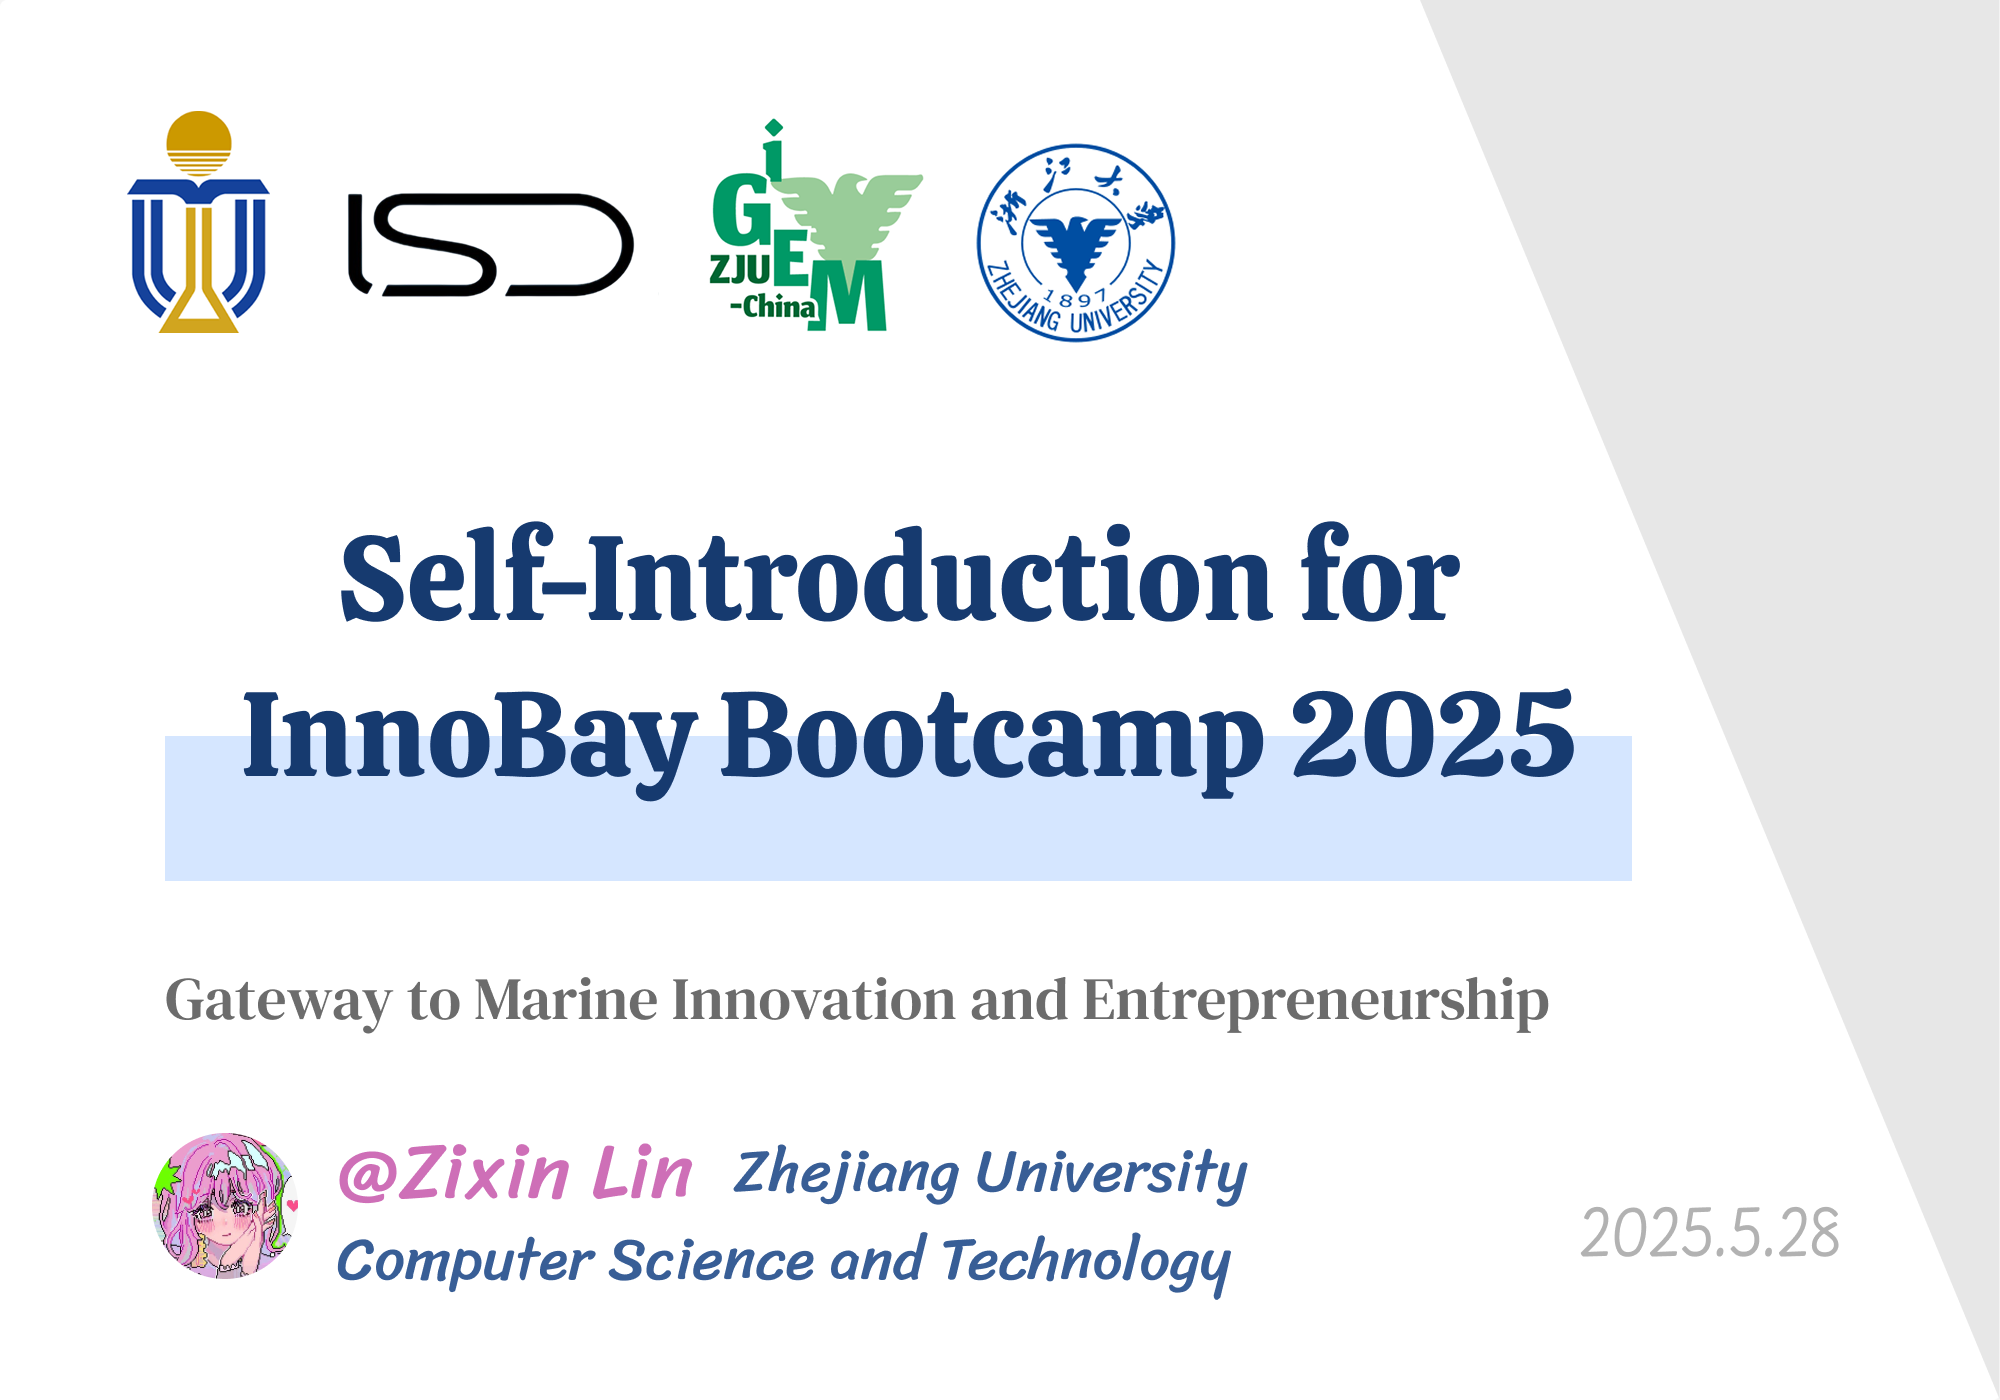
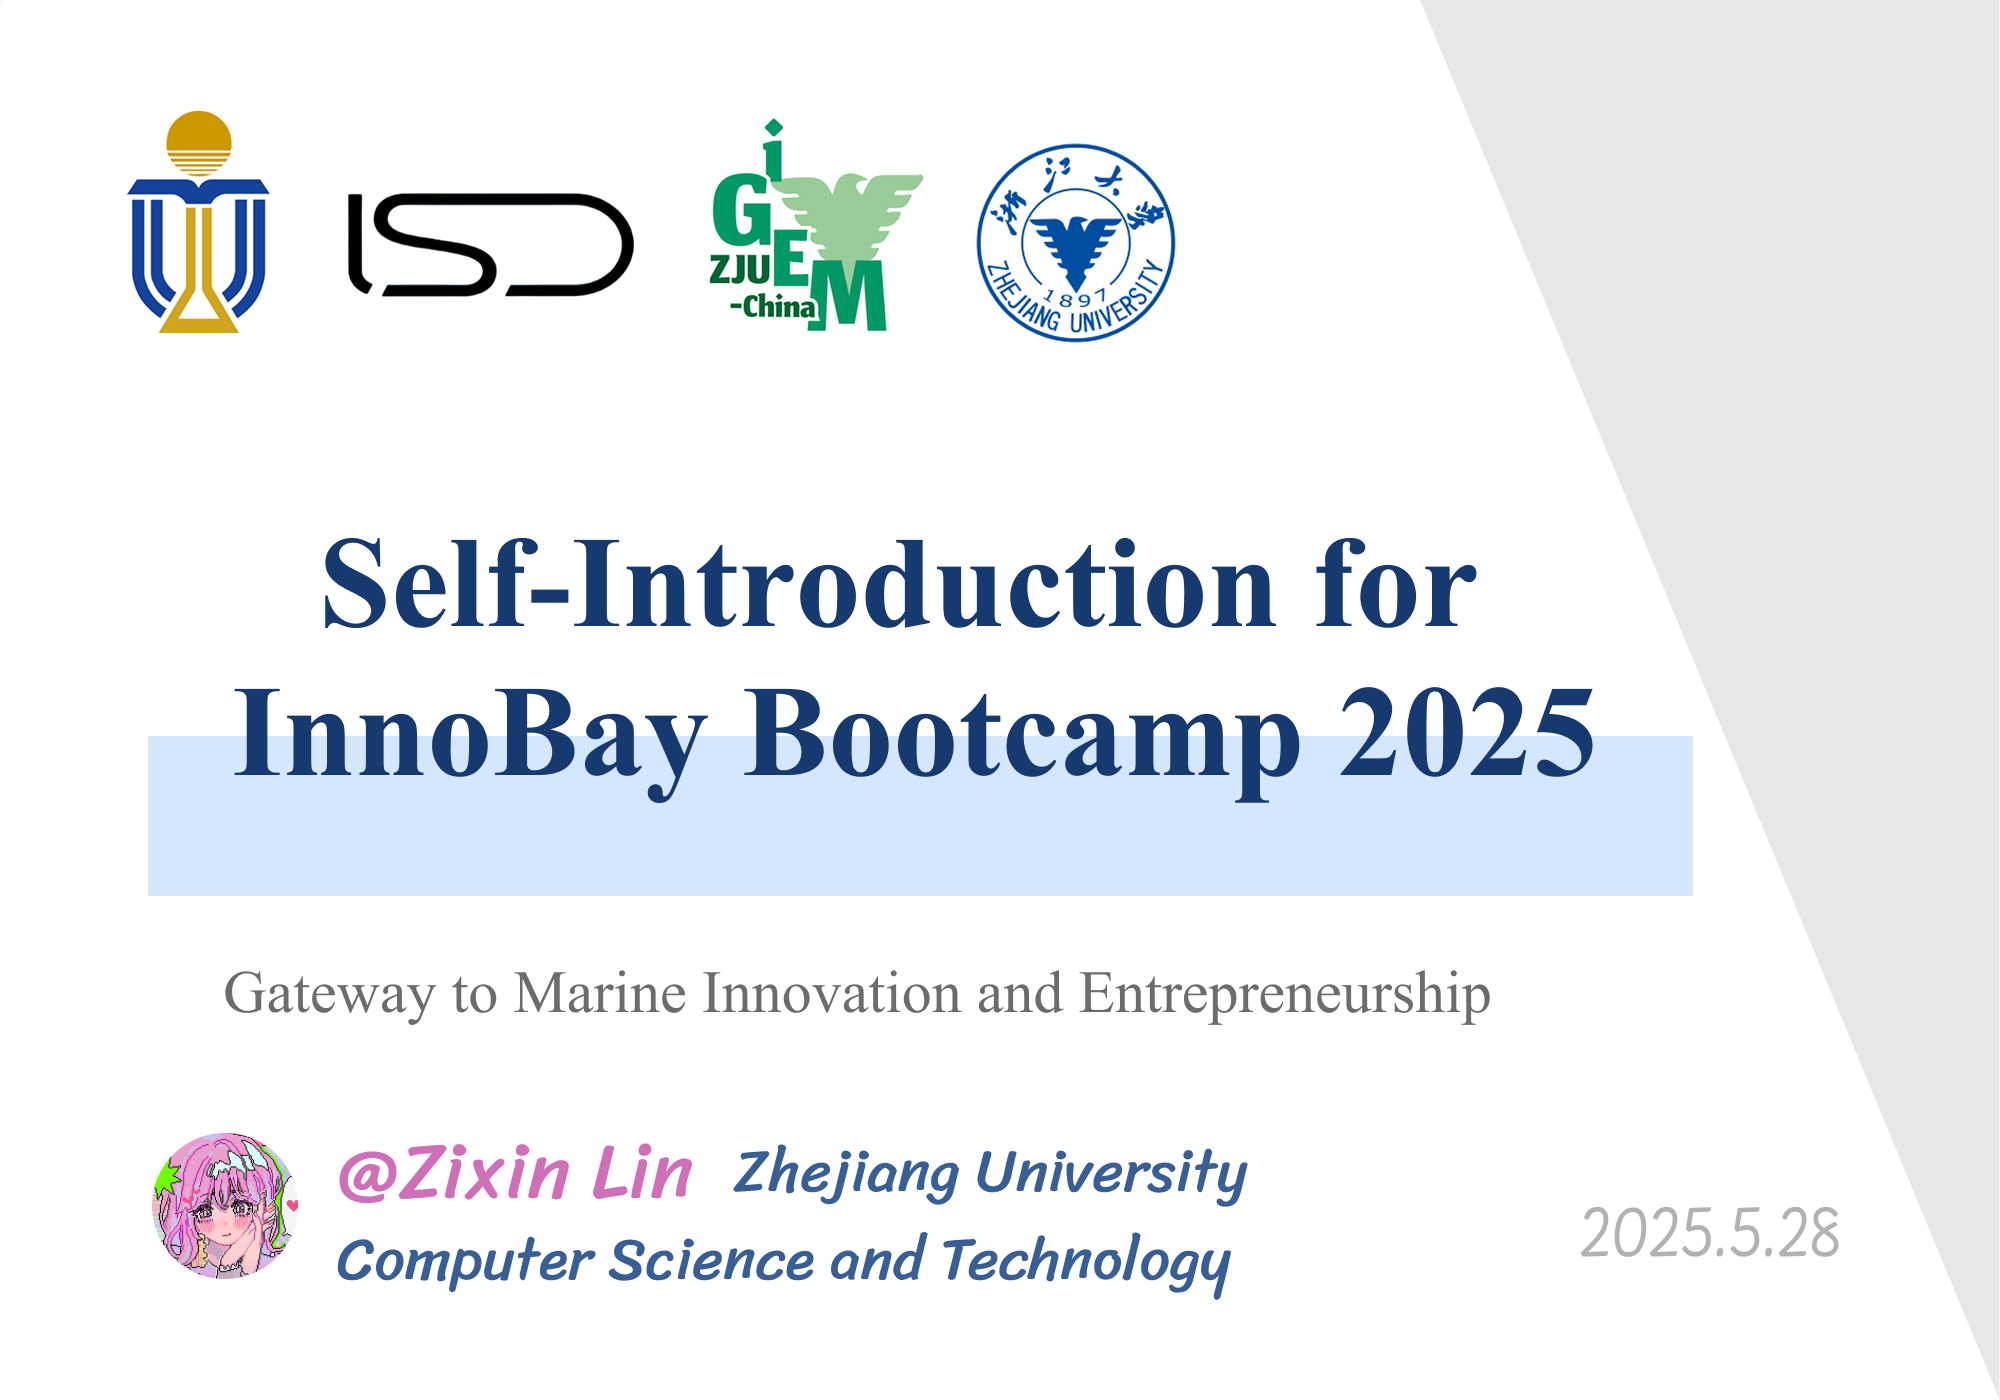
slide: change font in hkust inter

Changed region(s): [[0.062, 0.4914, 0.868, 0.645], [0.155, 0.3686, 0.744, 0.4607], [0.062, 0.6757, 0.775, 0.7371]]

diff --git a/src/hkust.md b/src/hkust.md
@@ -13,23 +13,32 @@ revealOptions:
     width: 1000
 ---
 
+<style>
+:root {
+  --r-main-font: "Times New Roman", "LXGW WenKai Screen", sans-serif;
+  --r-heading-font: "JetBrains Mono", "LXGW WenKai Screen", sans-serif;
+  --r-code-font: "Times New Roman", "LXGW WenKai Screen", sans-serif;
+}
+</style>
+
 <!-- .slide: data-background="hkust/cover.png" -->
 
 <!--v-->
 <!-- .slide: data-background="hkust/background.png" -->
 
-## About Me
+<h2 style="color: #337ab7;">About Me</h2>
 
 <div style="font-size: 0.9em; padding-left: 20px; padding-right: 20px;">
   <p><strong>Zixin Lin (林子昕)</strong> | B.Eng. Candidate in Information Security, Zhejiang University (2022-2026).</p>
   <p>Passionate about leveraging <strong>AI & IoT</strong> for innovative solutions. Currently Team Leader for ZJU-CHINA iGEM 2025 Team.</p>
   
   <!-- <p style="margin-top:15px; font-size: 0.9em;"><strong>Academic Background:</strong></p> -->
+  <p style="margin-top:15px; font-size: 0.9em;"><strong>Academic Background:</strong></p>
   <ul style="font-size: 0.9em;">
     <li><strong>Zhejiang University (2022 – 2026):</strong> 
       <ul style="font-size: 0.9em;">
         <li>Information Security (CS & Tech) | GPA: 3.93/4.3 </li>
-        <li>Relevant Courses: CompSys (98), SW Security (99), CTF Practice (99).</li>
+        <li>Relevant Courses: Computer System (98), Software Security (99), CTF Practice (99), Computer Network Security (91)</li>
       </ul>
     </li>
     <li style="margin-top:10px;"><strong>University of California, Irvine (Summer 2024):</strong> 
@@ -47,7 +56,7 @@ revealOptions:
 <div class="middle center">
 <div style="width: 100%">
 
-# Publications
+<h1 style="color: #337ab7;">Publications</h1>
 
 </div>
 </div>
@@ -56,7 +65,7 @@ revealOptions:
 <!-- .slide: data-background="hkust/background.png" -->
 
 
-## Publications in AI field
+<h2 style="color: #337ab7;">Publications in AI field</h2>
 
 <div style="font-size: 0.82em; line-height: 1.45; padding-left: 25px; padding-right: 25px;">
   <p style="margin-bottom: 12px;">
@@ -84,7 +93,7 @@ revealOptions:
 <!--v-->
 <!-- .slide: data-background="hkust/background.png" -->
 
-## Publications in IoT field
+<h2 style="color: #337ab7;">Publications in IoT field</h2>
 
   <p style="margin-bottom: 12px;">
     <strong>DiskSpy: Exploring a Long-Range Covert-Channel Attack via mmWave Sensing of &mu;m-level HDD Vibrations</strong><br>
@@ -93,17 +102,17 @@ revealOptions:
   </p>
   <p>
     <strong>Practical EMI Attacks on Smartphones With Users' Commands Cancelled</strong><br>
-    <em>IEEE Trans. Dependable Secur. Comput. (TDSC)</em><br>
+    <em>IEEE Trans. Dependable Secur. Comput. 2024 (Accepted)</em><br>
     <span style="font-size: 0.85em; color: #333;">Ming Gao, Fu Xiao, Wentao Guo, <strong>Zixin Lin</strong>, Weiran Liu, Jinsong Han</span>
   </p>
 </div>
 
 <div class = 'mul-cols'>
   <div class = 'col'>
-    <img src="hkust/diskspy.png" alt="USENIX Security Symposium 2025" style="width: 80%; display: block; margin: 0 auto;">
+    <img src="hkust/diskspy.png" alt="USENIX Security Symposium 2025" style="width: 90%; display: block; margin: 0 auto;">
   </div>
   <div class = 'col'>
-    <img src="hkust/emi.png" alt="IEEE Trans. Dependable Secur. Comput. (TDSC)" style="width: 80%; display: block; margin: 0 auto;">
+    <img src="hkust/emi.png" alt="IEEE Trans. Dependable Secur. Comput. (TDSC)" style="width: 90%; display: block; margin: 0 auto;">
   </div>
   </div>
 </div>
@@ -113,7 +122,7 @@ revealOptions:
 <div class="middle center">
 <div style="width: 100%">
 
-# Innovation & Project
+<h1 style="color: #337ab7;">Innovation & Project</h1>
 
 </div>
 </div>
@@ -121,44 +130,46 @@ revealOptions:
 <!--v-->
 <!-- .slide: data-background="hkust/background.png" -->
 
-## LumaManta: Marine Protect System
+<h2 style="color: #337ab7;">LumaManta: Marine Protect System</h2>
 
 - **Project & Goals:** Targeting Gold in <strong>iGEM 2025</strong> with an integrated underwater system for multi-pollutant detection, quantification, & in-situ treatment to combat marine pollution.
 
 
 <div class = 'mul-cols'>
   <div class = 'col'>
-    <img src="hkust/poster.png" alt="LumaManta" style="width: 60%; display: block; margin: 0.15em 2em;">
+    <img src="hkust/poster.png" alt="LumaManta" style="width: 65%; display: block; margin: 0.15em 2em;">
   </div>
   <div class = 'col'>
     <p style="font-size: 0.6em; margin: 0 0"><strong>My Role:</strong> Team Leader, ZJU-CHINA iGEM Team (selected after leading the development of a comprehensive proposal & wiki for the competitive university team trials).</p>
-    <img src="hkust/igem-wp.png" alt="ZJU-CHINA iGEM 2025" style="width: 70%; display: block; margin: 0.4em auto;">
+    <img src="hkust/igem-wp0.png" alt="ZJU-CHINA iGEM 2025" style="width: 60%; display: block; margin: 0.1em auto;">
+    <img src="hkust/igem-wp.png" alt="ZJU-CHINA iGEM 2025" style="width: 60%; display: block; margin: 0.2em auto;">
   </div>
 </div>
 
 <!--v-->
 <!-- .slide: data-background="hkust/background.png" -->
 
-## DragonZhu: AIGC Detection Tool
+<h2 style="color: #337ab7;">DragonZhu: AIGC Detection Tool</h2>
 
 - **Project & Achievements:** Developed and deployed a web-based platform for detecting multimodal AI-Generated Content (text, images, audio, video). The project achieved a **National Gold Award** in the China "Internet+" Innovation and Entrepreneurship Competition.
 - **My Role:** Team member, involved in developing the user-friendly interface, data processing capabilities, and backend services for API interaction and result visualization.
 
-<img src="hkust/aigc.png" alt="DragonZhu" style="width: 55%; display: block; margin: 0.15em auto;">
+<img src="hkust/aigc.png" alt="DragonZhu" style="width: 70%; display: block; margin: 0.15em auto;">
 
 <!--v-->
 <!-- .slide: data-background="hkust/background.png" -->
-## XRoot CPU: RISC-V System
+<h2 style="color: #337ab7;">XRoot CPU: RISC-V System</h2>
 
-- **Project & Achievements:** Designed and implemented a complete computer system, from a 64-bit RISC-V processor (hardware) to an OS kernel with multitasking and memory management (software). The work was featured in the "Computer System Interdisciplinary Course Experiment Guide (RISC-V Architecture)".
-- **My Role:** Initially completed individual full-stack (hardware & software) development. In the final team-based hardware-software co-design phase, responsible for the software component.
+- <strong>Full-Stack RISC-V System:</strong> Engineered a <strong>complete 64-bit RISC-V computer system</strong>, from processor hardware to a multitasking OS kernel.
+    - This work is <strong>featured</strong> in the "Computer System Interdisciplinary Course Experiment Guide (RISC-V Architecture)" by Prof. Chang.
+- <strong>My Role:</strong> Completed initial <strong>full-stack (HW & SW) development</strong>, and later spearheaded the <strong>software component</strong> in the team-based co-design.
 
 <div class = 'mul-cols'>
   <div class = 'col'>
-    <img src="hkust/xpart.png" alt="XRoot CPU" style="width: 65%; display: block; margin: 0.15em 2em;">
+    <img src="hkust/xpart.png" alt="XRoot CPU" style="width: 100%; display: block; margin: 0.15em 2em;">
   </div>
   <div class = 'col'>
-    <img src="hkust/risc.png" alt="XRoot CPU" style="width: 70%; display: block; margin: 0.4em auto;">
+    <img src="hkust/risc.png" alt="XRoot CPU" style="width: 80%; display: block; margin: 1em auto;">
   </div>
 </div>
 
@@ -168,7 +179,7 @@ revealOptions:
 <div class="middle center">
 <div style="width: 100%">
 
-# Why InnoBay & Why Me
+<h1 style="color: #337ab7;">Why InnoBay & Why Me</h1>
 
 </div>
 </div>
@@ -176,7 +187,7 @@ revealOptions:
 <!--v-->
 <!-- .slide: data-background="hkust/background.png" -->
 
-## How I Can Contribute to InnoBay
+<h2 style="color: #337ab7;">How I Can Contribute to InnoBay</h2>
 
 *   **Marine Tech Alignment:** My **LumaManta (iGEM 2025)** leadership, developing an *intelligent underwater system for marine pollution*, directly fits InnoBay's theme, bringing hands-on marine solution experience.
 
@@ -189,7 +200,7 @@ revealOptions:
 <!--v-->
 <!-- .slide: data-background="hkust/background.png" -->
 
-## My Aspirations
+<h2 style="color: #337ab7;">My Aspirations</h2>
 
 *   **Learn from Experts:** Gain insights from **HKUST professors & industry leaders** on applying cutting-edge tech to real-world problems.
 
@@ -202,7 +213,7 @@ revealOptions:
 <!--v-->
 <!-- .slide: data-background="hkust/background.png" -->
 
-## Core Skills
+<h2 style="color: #337ab7;">Core Skills</h2>
 
 - **Programming Languages:**
   - Python, C, C++, Java, JavaScript
